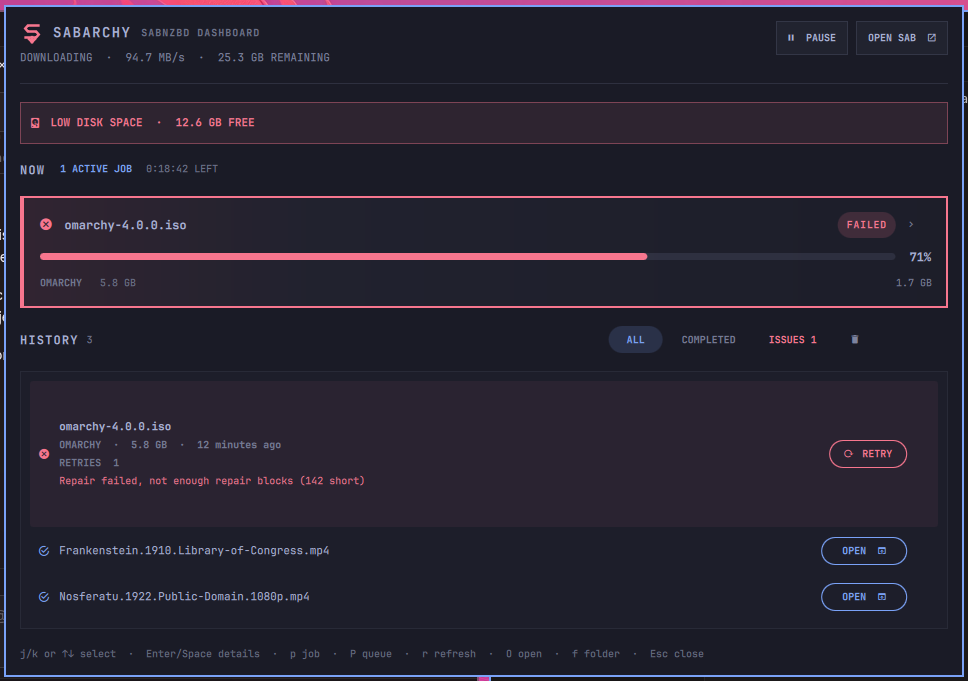
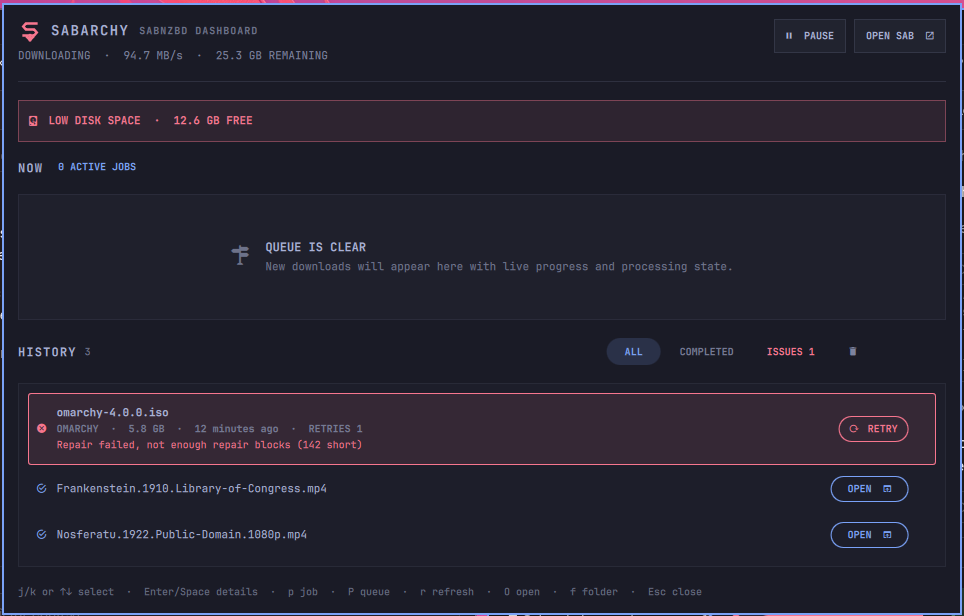
Tighten failed history retry rows and harden screenshot capture.
Keep expanded failures compact, leave failed demos out of the active queue, and clear leftover slurp pickers so Omarchy region captures don't exit empty.

diff --git a/Panel.qml b/Panel.qml
@@ -527,28 +527,42 @@ Panel {
                 readonly property bool canOpen: !failedItem && Boolean(recentCard.modelData.storage)
                 readonly property int retryCount: Number(recentCard.modelData.retry_count || 0)
                 width: recentList.width
-                height: (recentCard.failedItem ? Style.space(68) : Style.space(44)) + (expanded ? (recentCard.failedItem ? Style.space(78) : Style.space(52)) : 0)
+                height: (recentCard.failedItem ? Style.space(50) : Style.space(44)) + (expanded ? Style.space(22) : 0)
                 radius: Math.max(3, Style.cornerRadius - 2)
                 color: selected ? Qt.rgba(recentCard.itemColor.r, recentCard.itemColor.g, recentCard.itemColor.b, 0.11) : (recentCard.failedItem ? Qt.rgba(Color.urgent.r, Color.urgent.g, Color.urgent.b, 0.06) : "transparent")
                 border.width: selected ? Style.spacing.hairline : 0; border.color: recentCard.itemColor
                 Behavior on height { NumberAnimation { duration: 160; easing.type: Easing.OutCubic } }
                 Row {
-                  anchors.fill: parent; anchors.margins: Style.space(9); spacing: Style.space(10)
-                  Text { textFormat: Text.PlainText; anchors.verticalCenter: parent.verticalCenter; text: root.statusIcon(recentCard.modelData.status); color: recentCard.itemColor; font.family: root.contentFontFamily; font.pixelSize: Style.font.body }
+                  anchors.fill: parent; anchors.leftMargin: Style.space(9); anchors.rightMargin: Style.space(9); anchors.topMargin: Style.space(7); anchors.bottomMargin: Style.space(7); spacing: Style.space(10)
+                  Text { textFormat: Text.PlainText; anchors.verticalCenter: parent.verticalCenter; text: root.statusIcon(recentCard.modelData.status); color: recentCard.itemColor; font.family: root.contentFontFamily; font.pixelSize: Style.font.bodySmall }
                   Column {
-                    anchors.verticalCenter: parent.verticalCenter; width: parent.width - retryButton.width - Style.space(52); spacing: Style.space(4)
+                    anchors.verticalCenter: parent.verticalCenter; width: parent.width - retryButton.width - Style.space(48); spacing: Style.space(2)
                     Text { textFormat: Text.PlainText; width: parent.width; text: String(recentCard.modelData.name || "Untitled"); elide: Text.ElideMiddle; color: root.contentForeground; font.family: root.contentFontFamily; font.pixelSize: Style.font.bodySmall; font.bold: recentCard.failedItem; MouseArea { anchors.fill: parent; hoverEnabled: true; cursorShape: Qt.PointingHandCursor; onClicked: { root.focusSection = "history"; root.historyIndex = recentCard.index; root.expandedHistoryId = recentCard.expanded ? "" : String(recentCard.modelData.id) } } }
                     Text { textFormat: Text.PlainText; visible: recentCard.failedItem && !recentCard.expanded; width: parent.width; text: String(recentCard.modelData.failure || "SABnzbd reported an unspecified failure"); elide: Text.ElideRight; color: Qt.darker(root.contentForeground, 1.4); font.family: root.contentFontFamily; font.pixelSize: Style.font.caption }
-                    Text { textFormat: Text.PlainText; visible: recentCard.expanded; width: parent.width; text: String(recentCard.modelData.category || "Uncategorized").toUpperCase() + "  ·  " + String(recentCard.modelData.size || "Unknown size") + (recentCard.modelData.completed ? "  ·  " + String(recentCard.modelData.completed) : ""); elide: Text.ElideRight; color: Qt.darker(root.contentForeground, 1.45); font.family: root.contentFontFamily; font.pixelSize: Style.font.caption; font.bold: true }
-                    Text { textFormat: Text.PlainText; visible: recentCard.expanded && recentCard.retryCount > 0; width: parent.width; text: "RETRIES  " + String(recentCard.retryCount); color: Qt.darker(root.contentForeground, 1.5); font.family: root.contentFontFamily; font.pixelSize: Style.font.caption; font.bold: true }
-                    Text { textFormat: Text.PlainText; visible: recentCard.expanded && recentCard.failedItem; width: parent.width; text: String(recentCard.modelData.failure || "SABnzbd reported an unspecified failure"); wrapMode: Text.WordWrap; maximumLineCount: 2; elide: Text.ElideRight; color: Color.urgent; font.family: root.contentFontFamily; font.pixelSize: Style.font.caption }
+                    Text {
+                      textFormat: Text.PlainText;
+                      visible: recentCard.expanded
+                      width: parent.width
+                      text: {
+                        var parts = [String(recentCard.modelData.category || "Uncategorized").toUpperCase(), String(recentCard.modelData.size || "Unknown size")]
+                        if (recentCard.modelData.completed) parts.push(String(recentCard.modelData.completed))
+                        if (recentCard.retryCount > 0) parts.push("RETRIES " + String(recentCard.retryCount))
+                        return parts.join("  ·  ")
+                      }
+                      elide: Text.ElideRight
+                      color: Qt.darker(root.contentForeground, 1.45)
+                      font.family: root.contentFontFamily
+                      font.pixelSize: Style.font.caption
+                      font.bold: true
+                    }
+                    Text { textFormat: Text.PlainText; visible: recentCard.expanded && recentCard.failedItem; width: parent.width; text: String(recentCard.modelData.failure || "SABnzbd reported an unspecified failure"); elide: Text.ElideRight; color: Color.urgent; font.family: root.contentFontFamily; font.pixelSize: Style.font.caption }
                     Text { textFormat: Text.PlainText; visible: recentCard.expanded && recentCard.canOpen; width: parent.width; text: String(recentCard.modelData.storage); elide: Text.ElideMiddle; color: Qt.darker(root.contentForeground, 1.35); font.family: root.contentFontFamily; font.pixelSize: Style.font.caption }
                   }
                   Rectangle {
                     id: retryButton
                     readonly property bool failedItem: recentCard.failedItem
                     readonly property bool canOpen: recentCard.canOpen
-                    width: retryButton.failedItem ? Style.space(78) : Style.space(86); height: Style.space(28); radius: height / 2; anchors.verticalCenter: parent.verticalCenter
+                    width: retryButton.failedItem ? Style.space(70) : Style.space(78); height: Style.space(26); radius: height / 2; anchors.verticalCenter: parent.verticalCenter
                     color: (retryButton.failedItem || retryButton.canOpen) && retryMouse.containsMouse ? Qt.rgba((retryButton.failedItem ? Color.urgent : Color.accent).r, (retryButton.failedItem ? Color.urgent : Color.accent).g, (retryButton.failedItem ? Color.urgent : Color.accent).b, 0.2) : "transparent"
                     border.width: (retryButton.failedItem || retryButton.canOpen) ? Style.spacing.hairline : 0
                     border.color: retryButton.failedItem ? Color.urgent : Color.accent

diff --git a/CHANGELOG.md b/CHANGELOG.md
@@ -15,6 +15,7 @@ All notable changes to SABarchy are documented here.
 
 - Bar tooltip summarizes verify/unpack activity and failure counts.
 - Active jobs stay in one list; the status pill tracks SABnzbd stage changes instead of splitting into parallel sections.
+- Failed history rows stay compact when expanded (retry count folded into the meta line).
 - Processing demo fixture shows a verifying job in that single-row flow.
 
 ### Fixed
